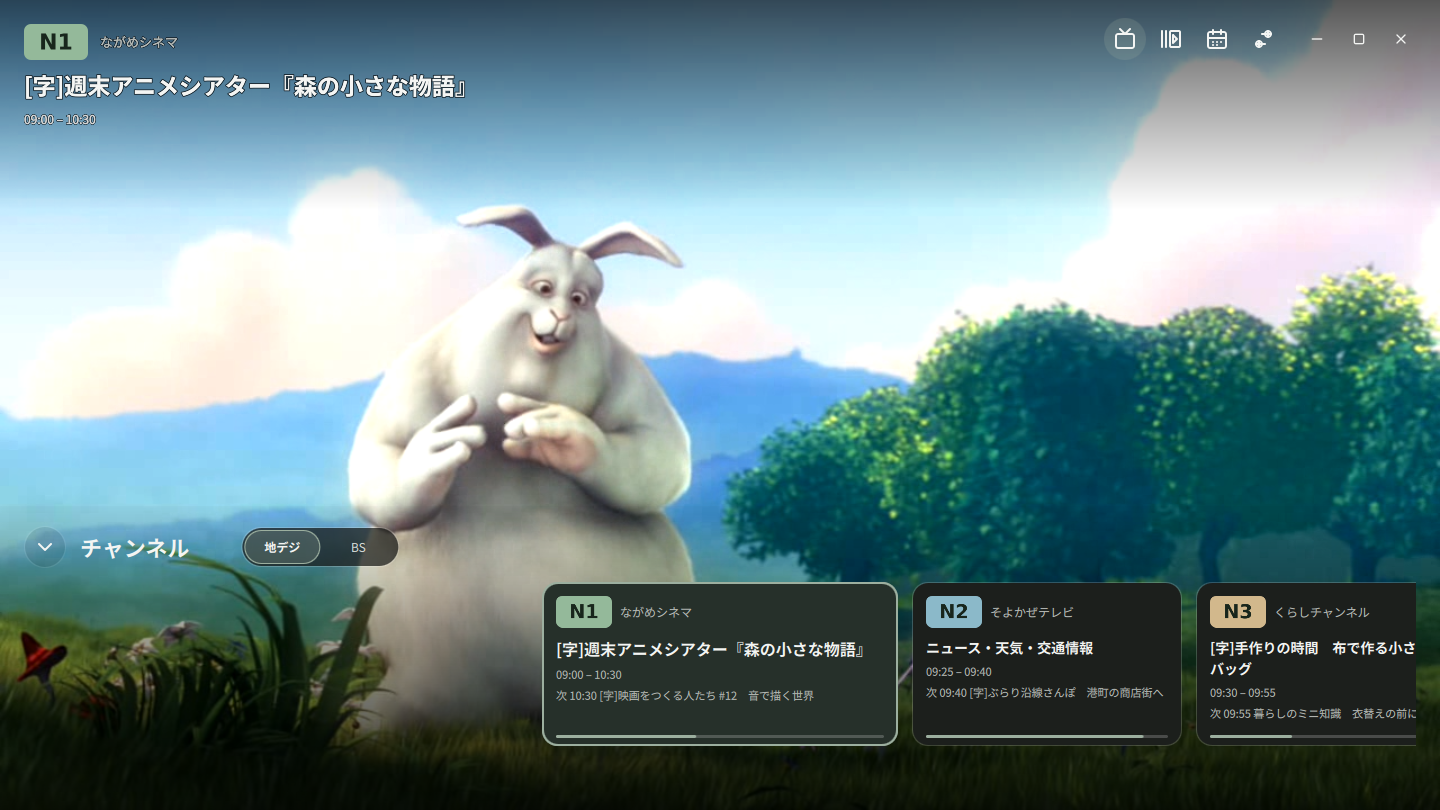
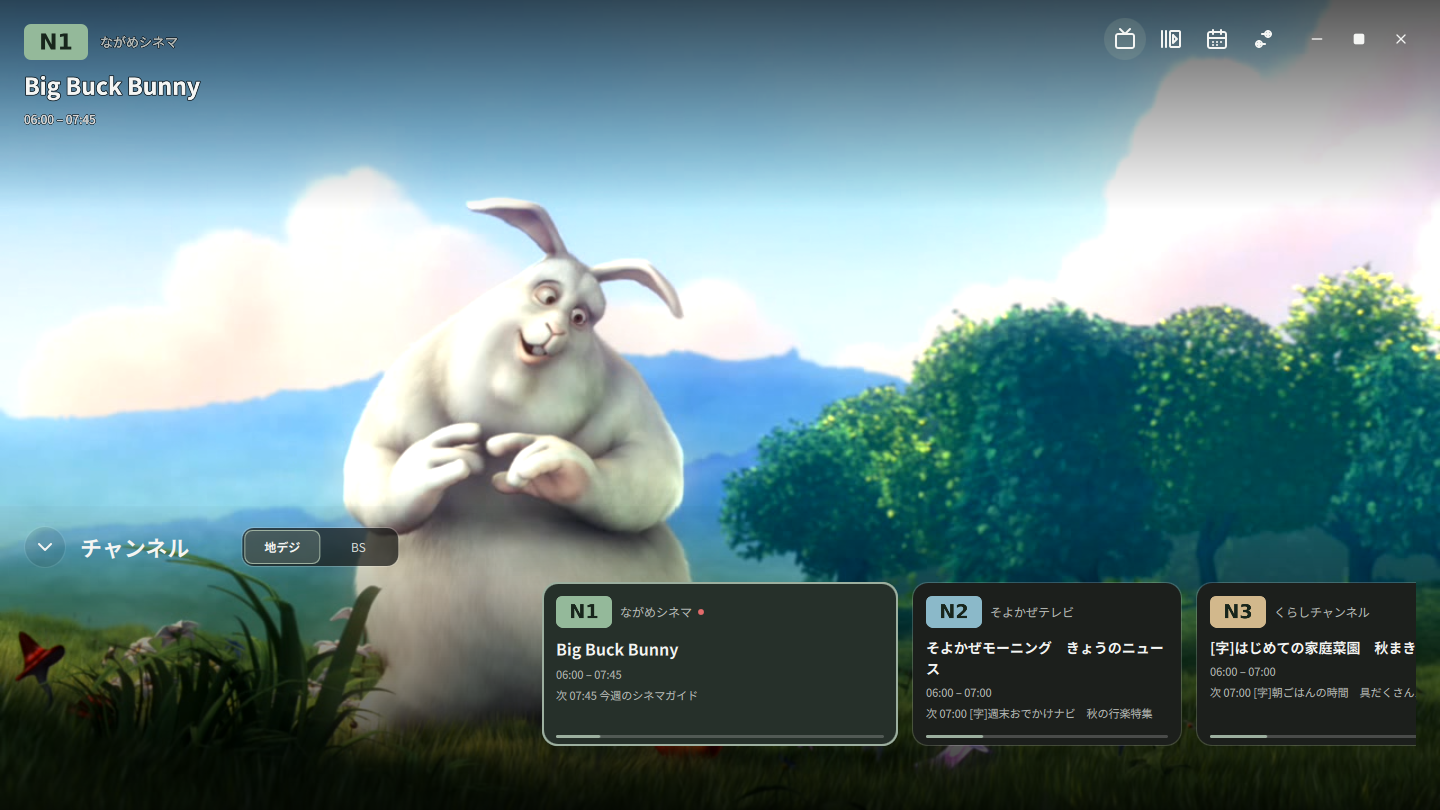
docs: refresh publicity screenshots and Big Buck Bunny titles

diff --git a/scripts/publicity/schedule.py b/scripts/publicity/schedule.py
@@ -1,5 +1,5 @@
-"""Authored TV listings for publicity; all stations, shows and people are fictional."""
-from dataclasses import dataclass
+"""Authored publicity listings; fictional except for the sample movie's title."""
+from dataclasses import dataclass, replace
 from datetime import datetime, timedelta
 from enum import IntEnum
 from zoneinfo import ZoneInfo
@@ -13,6 +13,12 @@ NETWORK_BASE = 65000
 SERVICE_ID = 1
 EVENT_DAY_STRIDE = 100
 PROGRAM_CHANNEL_STRIDE = GUIDE_DAYS * EVENT_DAY_STRIDE
+SAMPLE_TITLE = "Big Buck Bunny"
+SAMPLE_DESCRIPTION = (
+    "Blender Foundation制作の短編アニメーション。"
+    "大きなウサギと森の小さな動物たちの物語。\n"
+    "作品：Big Buck Bunny／Blender Foundation"
+)
 
 
 class Genre(IntEnum):
@@ -56,9 +62,7 @@ SCHEDULES = (
         listing("07:45", "今週のシネマガイド", Genre.INFORMATION),
         listing("08:00", "[字]映画の舞台を訪ねて　海辺の町と古い駅舎", Genre.DOCUMENTARY),
         listing("08:45", "シネマ便り　新作紹介・監督インタビュー", Genre.INFORMATION),
-        listing("09:00", "[字]週末アニメシアター『森の小さな物語』", Genre.ANIMATION,
-                "緑あふれる森を舞台に、大きなウサギと小さな動物たちの一日を描く短編特集。"
-                "▽オープンムービーの世界▽アニメーション制作の舞台裏\n作品：Big Buck Bunny／Blender Foundation"),
+        listing("09:00", SAMPLE_TITLE, Genre.ANIMATION, SAMPLE_DESCRIPTION),
         listing("10:30", "[字]映画をつくる人たち #12　音で描く世界", Genre.DOCUMENTARY,
                 "足音、風の音、衣擦れ。身近な道具から映画の音が生まれるまでを、音響スタッフの仕事場で追う。"),
         listing("11:00", "[字]名作映画館『夏の停留所』", Genre.FILM,
@@ -249,6 +253,12 @@ def programs(now):
         for day in range(GUIDE_DAYS):
             for index, (slot, end) in enumerate(zip(slots, ends)):
                 start = midnight + timedelta(days=day, minutes=slot.minute)
+                finish = midnight + timedelta(days=day, minutes=end)
+                # The selected station plays this movie at any capture time.
+                # Share its real title across the guide, live UI and TS metadata.
+                program = (replace(slot, title=SAMPLE_TITLE, genre=Genre.ANIMATION,
+                                   description=SAMPLE_DESCRIPTION)
+                           if channel == 0 and start <= now < finish else slot)
                 event_id = day * EVENT_DAY_STRIDE + index + 1
                 entries.append(dict(
                     id=channel * PROGRAM_CHANNEL_STRIDE + event_id,
@@ -257,9 +267,9 @@ def programs(now):
                     serviceId=SERVICE_ID,
                     startAt=int(start.timestamp() * 1000),
                     duration=(end - slot.minute) * MILLISECONDS_PER_MINUTE,
-                    name=slot.title,
-                    description=slot.description,
-                    genres=[dict(lv1=slot.genre, lv2=0)],
+                    name=program.title,
+                    description=program.description,
+                    genres=[dict(lv1=program.genre, lv2=0)],
                 ))
     return entries
 

diff --git a/scripts/publicity/capture.py b/scripts/publicity/capture.py
@@ -25,9 +25,9 @@ def catalog():
 class DemoServer(ThreadingHTTPServer):
     daemon_threads = True
 
-    def __init__(self):
+    def __init__(self, now):
         self.stopping = threading.Event()
-        self.schedule = schedule.programs(datetime.now(JST))
+        self.schedule = schedule.programs(now)
         super().__init__(('127.0.0.1', 0), Handler)
 
 class Handler(BaseHTTPRequestHandler):
@@ -91,8 +91,8 @@ def main():
     OUTPUT.mkdir(parents=True, exist_ok=True)
     config = Path(os.environ['XDG_CONFIG_HOME']) / 'nagametv'
     config.mkdir(parents=True, exist_ok=True)
-    server = DemoServer()
     now = datetime.now(JST)
+    server = DemoServer(now)
     fixture.author(BASE / 'demo.ts', BASE / 'Big Buck Bunny.ts', now,
                    schedule.on_air_pair(server.schedule, now))
     url = f'http://127.0.0.1:{server.server_port}'

diff --git a/docs/publicity.md b/docs/publicity.md
@@ -29,7 +29,7 @@ Releaseや紹介記事の書き出し:
 
 ## 撮影条件
 
-- 2026-09-19、アプリのコミット `d2c6d3dfd031225a7c7b293fae323ba54d74f0cc` を撮影。
+- 2026-09-21、アプリのコミット `6dc5352eba02562e41471e986c77be6d00d42d6d` を撮影。
 - 製品の`build/nagametv`と`Main.qml`をそのまま使用。製品コードの変更はありません。
 - UbuntuのWorkshop、Qt Quick / GStreamer、NVIDIA GeForce RTX 4070 Ti。
 - [専用GUI環境](gui-test-environment.md)で画面・実GPU・仮想音声を検証してから起動。
@@ -41,6 +41,8 @@ Releaseや紹介記事の書き出し:
   90〜110分の映画、地域スポーツ中継などを編成しています。
   字幕・再放送の表記、話数・特集内容も架空の番組データの一部です。
   番組表とTS内の番組情報には同じ開始時刻・終了時刻・タイトルを使います。
+- サンプル映像の番組名は **Big Buck Bunny**。撮影時刻にかかわらず、選択中の
+  「ながめシネマ」の放送中の枠に作品名・説明・アニメーションのジャンルを設定します。
 - ライブ振り返りの保存とコメント受信は撮影設定でOFF。外部の実況サービスには投稿しません。
 - 専用音声出力への再生を検証してから撮影します。
 

diff --git a/docs/media/README.md b/docs/media/README.md
@@ -1,6 +1,7 @@
 # ながめTVのスクリーンショット
 
-画像は1440×810の実際のアプリ画面です。局名・ロゴ・番組情報は撮影用の架空のデータです。
+画像は1440×810の実際のアプリ画面です。2026-09-21の最新版で撮影しました。
+局名・ロゴ・番組編成は撮影用の架空のデータで、サンプル映像の番組名は作品名を表示しています。
 ローカルの撮影用配信元と、下記の再配布可能な映像を使用しました。
 
 ## 視聴画面
@@ -43,8 +44,7 @@
 - 入手先: [Blender公式ダウンロード](https://download.blender.org/peach/bigbuckbunny_movies/)
 - 原素材: `big_buck_bunny_720p_stereo.ogg.zip`
 - 加工: 映像の抜粋、TS変換、表示サイズの変更、アプリ画面としての撮影。
-- 作品の正式な題名は **Big Buck Bunny** です。画面内の「森の小さな物語」は
-  番組情報表示を説明するために付けた架空の番組名です。
+- 視聴画面・チャンネル一覧・番組表・録画再生の番組名も **Big Buck Bunny** に統一しています。
 
 READMEや紹介記事でこれらの素材を使うときは、上記の作品名・著作者・出典・ライセンスと
 加工内容を併記してください。

diff --git a/README.md b/README.md
@@ -7,7 +7,7 @@ Mirakurunサーバーのテレビ放送とローカルのTS録画を再生する
 
 [スクリーンショット一覧](docs/media/README.md)
 
-撮影には架空の局・番組情報を使用しています。
+撮影には架空の局・番組編成を使用し、サンプル映像の番組名は作品名を表示しています。
 映像: [Big Buck Bunny](https://peach.blender.org/about/),
 (c) copyright 2008, Blender Foundation / www.bigbuckbunny.org —
 [CC BY 3.0](https://creativecommons.org/licenses/by/3.0/)。[素材とクレジット](docs/media/README.md#素材とクレジット)
